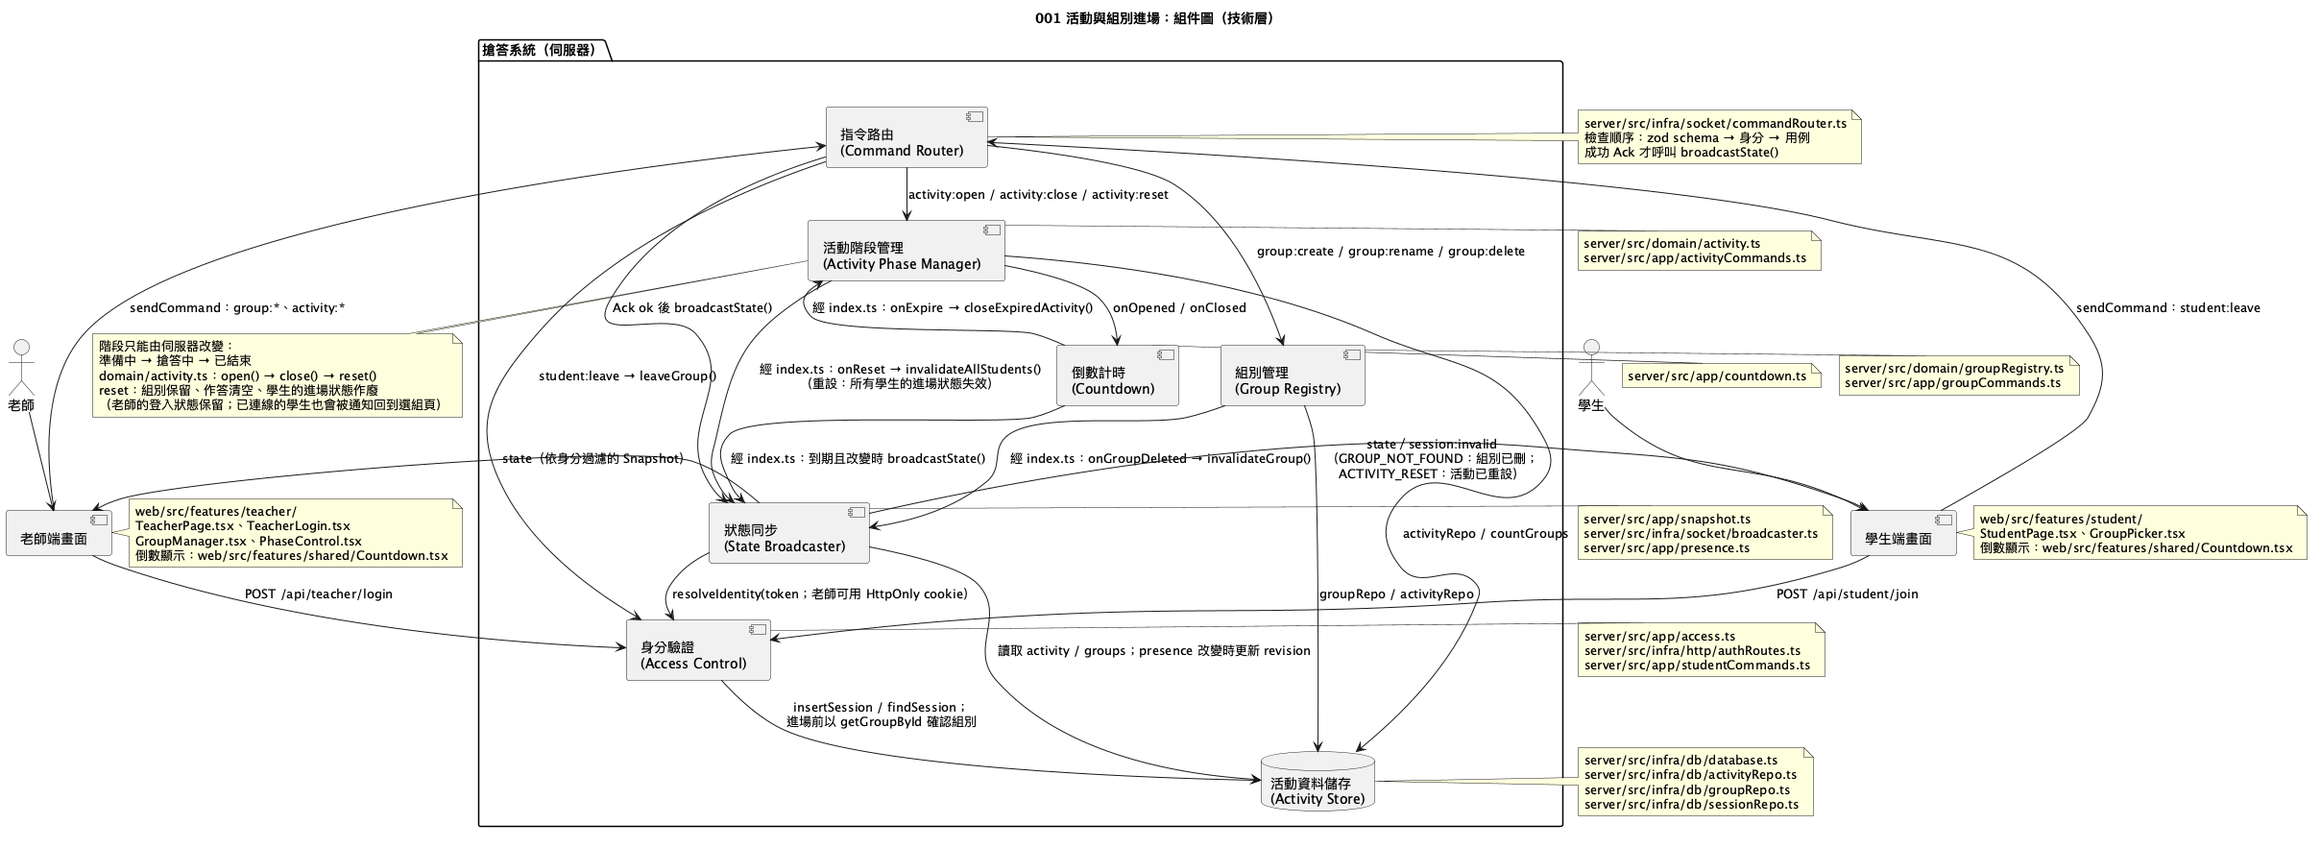
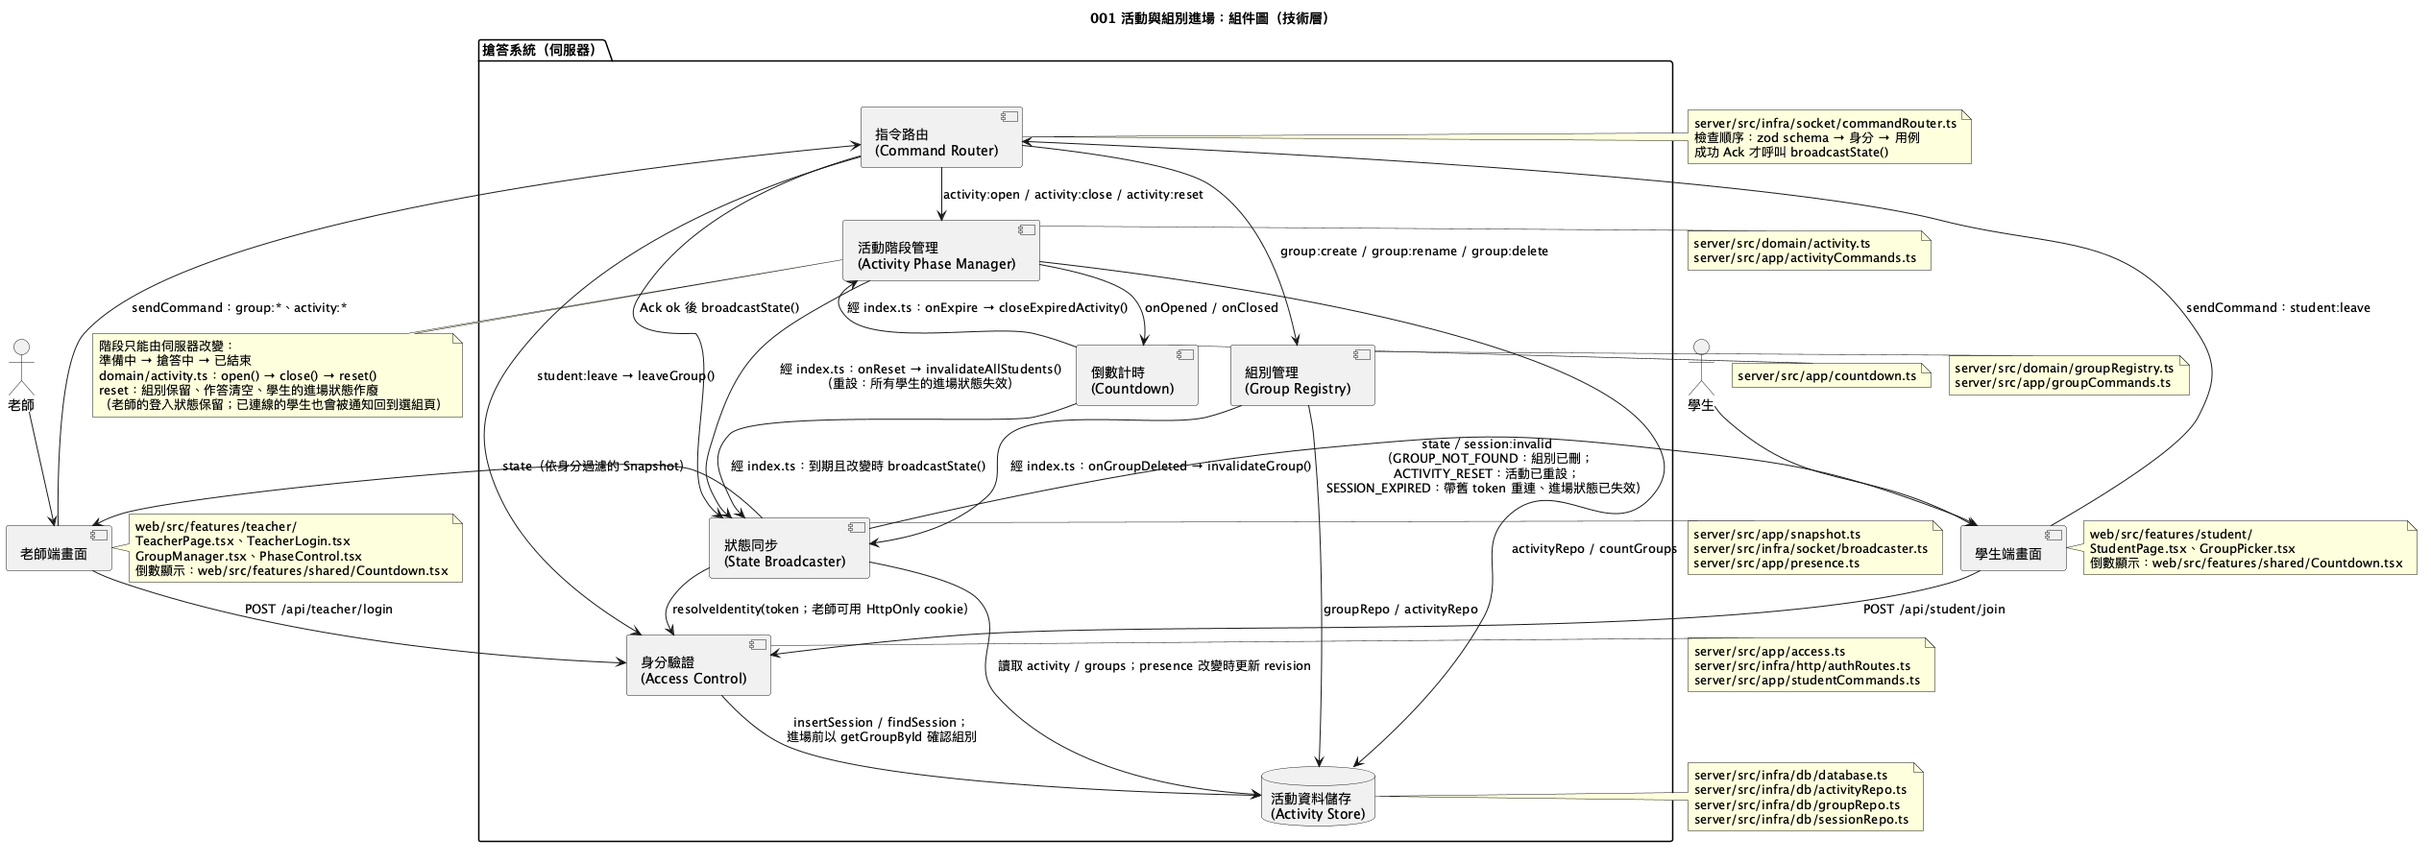
fix: 帶舊 token 重連時也通知學生（PR #44 review 三項修正）
- 伺服器：握手帶了 token、但身分解析為 guest 時，除了訪客快照也送
  session:invalid（SESSION_EXPIRED），前端因此清除 sessionStorage 裡的
  舊 token 並說明原因；與 GROUP_NOT_FOUND 分支互斥，只在學生端 token
  路徑觸發（老師的 HttpOnly cookie 路徑不受影響）
- 選組頁三種失效原因改走 i18n（新增 picker.groupNotFound、
  picker.sessionExpired），英文模式不再顯示中文
- 英文 picker.activityReset 改為「choose your group again」，與標題
  「Choose your group」用字一致；ERROR_MESSAGES_EN.GROUP_NOT_FOUND 同步
- 契約、規格（AC-001-27／FR-022）、決策對照表與 diagrams 同步更新；
  新增「重設當下離線、之後重連」的整合測試

diff --git a/server/tests/integration/reset.test.ts b/server/tests/integration/reset.test.ts
@@ -160,7 +160,8 @@ describe('activity:reset 重設活動（老師＋學生＋guest）', () => {
    * 2026-11-24（D2-1）：重設 = 新的一場 → 一併作廢學生的 session。
    *
    * 這個測項自建 socket（不用 beforeEach 的），因為要同時觀察三種身分在
-   * 重設前後的差別：學生降為 guest、老師保留、已連線的學生不受影響。
+   * 重設前後的差別：已連線的學生即時降為 guest、離線的學生重連時被通知、
+   * 老師保留。
    */
   it('重設會作廢學生的 session：舊 token 重連降為 guest，老師的 token 仍可重連（D2-1）', async () => {
     const teacherToken = issueSession(server.db, { role: 'teacher' });
@@ -199,10 +200,13 @@ describe('activity:reset 重設活動（老師＋學生＋guest）', () => {
     expect(studentAfterReset.role).toBe('guest');
     expect(studentAfterReset).not.toHaveProperty('myGroupId');
 
-    // 但他的 session 已經不存在了 → 用舊 token 重連會降為 guest。
+    // 但他的 session 已經不存在了 → 用舊 token 重連會降為 guest，並先收到
+    // SESSION_EXPIRED，讓前端清掉舊 token（等待器必須在 connect 前掛好）。
     const reconnected = server.connect({ token: studentToken, autoConnect: false });
+    const sessionExpired = waitForSessionInvalid(reconnected);
     const guestSnapshot = waitForState(reconnected);
     reconnected.connect();
+    expect(await sessionExpired).toEqual({ code: 'SESSION_EXPIRED' });
     expect((await guestSnapshot).role).toBe('guest');
 
     // 老師的 session 保留 → 用老師 token 重連仍是老師（不該被踢出）。
@@ -210,6 +214,72 @@ describe('activity:reset 重設活動（老師＋學生＋guest）', () => {
     const teacherSnapshot = waitForState(teacherReconnected);
     teacherReconnected.connect();
     expect((await teacherSnapshot).role).toBe('teacher');
+  });
+
+  /**
+   * 重設當下離線的學生收不到即時的 ACTIVITY_RESET；session 資料列刪除後，
+   * 必須在帶舊 token 重連時收到 SESSION_EXPIRED，才知道進場狀態為何失效。
+   */
+  it('重設當下離線的學生帶舊 token 重連，收到 SESSION_EXPIRED 且快照身分為 guest', async () => {
+    const offlineStudentToken = issueSession(server.db, {
+      role: 'student',
+      groupId: 'group-2',
+    });
+    const offlineStudent = server.connect({
+      token: offlineStudentToken,
+      autoConnect: false,
+    });
+
+    const studentInitial = waitForState(offlineStudent);
+    offlineStudent.connect();
+    const initialSnapshot = await studentInitial;
+    expect(initialSnapshot.role).toBe('student');
+    expect(initialSnapshot).toHaveProperty('myGroupId', 'group-2');
+
+    // 開搶答 → 結束，讓重設的前置條件成立。
+    let states = Promise.all([
+      waitForState(teacherSocket),
+      waitForState(offlineStudent),
+    ]);
+    expect(await sendCommand(teacherSocket, 'activity:open', {})).toEqual({
+      ok: true,
+    });
+    await states;
+    states = Promise.all([
+      waitForState(teacherSocket),
+      waitForState(offlineStudent),
+    ]);
+    expect(await sendCommand(teacherSocket, 'activity:close', {})).toEqual({
+      ok: true,
+    });
+    await states;
+
+    // 等老師快照確認第二組已離線，確保重設前 server 已處理 disconnect。
+    const teacherSawStudentOffline = waitForStateMatching(
+      teacherSocket,
+      (snapshot): snapshot is TeacherSnapshot =>
+        snapshot.role === 'teacher' && snapshot.presence['group-2'] === 0,
+    );
+    offlineStudent.disconnect();
+    await teacherSawStudentOffline;
+
+    expect(
+      await sendCommand(teacherSocket, 'activity:reset', { confirm: true }),
+    ).toEqual({ ok: true });
+
+    // 舊 token 對應的 session 已刪除；兩個等待器都要在 connect 前掛好。
+    const reconnected = server.connect({
+      token: offlineStudentToken,
+      autoConnect: false,
+    });
+    const sessionExpired = waitForSessionInvalid(reconnected);
+    const guestSnapshot = waitForState(reconnected);
+    reconnected.connect();
+
+    expect(await sessionExpired).toEqual({ code: 'SESSION_EXPIRED' });
+    const reconnectedSnapshot = await guestSnapshot;
+    expect(reconnectedSnapshot.role).toBe('guest');
+    expect(reconnectedSnapshot).not.toHaveProperty('myGroupId');
   });
 
   /**

diff --git a/web/tests/GroupPicker.test.tsx b/web/tests/GroupPicker.test.tsx
@@ -1,5 +1,5 @@
 import { cleanup, render, screen } from '@testing-library/react';
-import { ERROR_MESSAGES, type GroupSummary } from '@classroom/shared';
+import type { GroupSummary } from '@classroom/shared';
 import { afterEach, describe, expect, it, vi } from 'vitest';
 import { GroupPicker } from '../src/features/student/GroupPicker';
 
@@ -32,7 +32,7 @@ describe('GroupPicker', () => {
     render(<GroupPicker groups={groups} sessionInvalidCode="GROUP_NOT_FOUND" />);
 
     expect(screen.getByRole('alert').textContent).toBe(
-      ERROR_MESSAGES.GROUP_NOT_FOUND,
+      '找不到這個組別，請重新選擇',
     );
   });
 
@@ -47,8 +47,19 @@ describe('GroupPicker', () => {
       '活動已重設，請重新選擇組別',
     );
     // 不是「組別不存在」的說明。
-    expect(screen.queryByText(ERROR_MESSAGES.GROUP_NOT_FOUND)).toBeNull();
+    expect(screen.queryByText('找不到這個組別，請重新選擇')).toBeNull();
     // 組別保留 → 學生點一下就能重新進場。
     expect(screen.getByRole('button', { name: '第一組' })).toBeDefined();
+  });
+
+  it('SESSION_EXPIRED 顯示「進場狀態已失效，請重新選擇組別」的說明', () => {
+    render(<GroupPicker groups={groups} sessionInvalidCode="SESSION_EXPIRED" />);
+
+    expect(screen.getByRole('alert').textContent).toBe(
+      '進場狀態已失效，請重新選擇組別',
+    );
+    // 失效原因已無法分辨，不應誤稱是活動重設或組別不存在。
+    expect(screen.queryByText('活動已重設，請重新選擇組別')).toBeNull();
+    expect(screen.queryByText('找不到這個組別，請重新選擇')).toBeNull();
   });
 });

diff --git a/web/src/features/student/GroupPicker.tsx b/web/src/features/student/GroupPicker.tsx
@@ -1,14 +1,16 @@
-import {
-  ERROR_MESSAGES,
-  type GroupSummary,
-  type SessionInvalidPayload,
-} from '@classroom/shared';
+import type { GroupSummary, SessionInvalidPayload } from '@classroom/shared';
 import { useState } from 'react';
 import { useI18n } from '../../lib/i18n/LanguageProvider';
 import { joinStudent } from '../../lib/api';
 import { saveToken } from '../../lib/session';
 import { connectSocket } from '../../lib/socket';
 import styles from './GroupPicker.module.css';
+
+const SESSION_INVALID_MESSAGE_KEYS = {
+  GROUP_NOT_FOUND: 'picker.groupNotFound',
+  ACTIVITY_RESET: 'picker.activityReset',
+  SESSION_EXPIRED: 'picker.sessionExpired',
+} as const;
 
 export type GroupPickerProps = {
   groups: readonly GroupSummary[];
@@ -17,6 +19,7 @@ export type GroupPickerProps = {
    *
    * - `GROUP_NOT_FOUND`：目前組別已不存在（老師刪組）。
    * - `ACTIVITY_RESET`：活動被重設，本場的進場狀態失效（D2-1）。
+   * - `SESSION_EXPIRED`：帶著已失效的 token 重新連線，原失效原因已無法分辨。
    */
   sessionInvalidCode: SessionInvalidPayload['code'] | null;
 };
@@ -54,9 +57,7 @@ export function GroupPicker({ groups, sessionInvalidCode }: GroupPickerProps) {
       </h2>
       {sessionInvalidCode !== null && (
         <p className={styles.notice} role="alert">
-          {sessionInvalidCode === 'ACTIVITY_RESET'
-            ? t('picker.activityReset')
-            : ERROR_MESSAGES.GROUP_NOT_FOUND}
+          {t(SESSION_INVALID_MESSAGE_KEYS[sessionInvalidCode])}
         </p>
       )}
       {errorMessage !== null && (

diff --git a/web/src/lib/i18n/messages.ts b/web/src/lib/i18n/messages.ts
@@ -52,11 +52,13 @@ export const zhTW = {
 
   // ── 學生端：選組別 ──────────────────────────────────────
   'picker.title': '選擇組別',
+  'picker.groupNotFound': '找不到這個組別，請重新選擇',
   /*
    * 2026-11-25（D2-1）：活動被重設時，學生的進場狀態失效、回到選組頁。
    * 組別保留（老師設的組還在），重新點一次即可。
    */
   'picker.activityReset': '活動已重設，請重新選擇組別',
+  'picker.sessionExpired': '進場狀態已失效，請重新選擇組別',
   'picker.empty': '老師尚未建立組別',
   'picker.listLabel': '可選組別',
 
@@ -272,7 +274,9 @@ export const en: Messages = {
   'answer.buttonSubmitVisible': 'Submit Q{number}',
 
   'picker.title': 'Choose your group',
-  'picker.activityReset': 'The activity was reset, please pick a group again',
+  'picker.groupNotFound': 'That group no longer exists, please choose another group',
+  'picker.activityReset': 'The activity was reset, please choose your group again',
+  'picker.sessionExpired': 'Your session has expired, please choose your group again',
   'picker.empty': 'The teacher has not created any groups yet',
   'picker.listLabel': 'Available groups',
 

diff --git a/shared/src/protocol.ts b/shared/src/protocol.ts
@@ -362,12 +362,16 @@ export const STATE_EVENT = 'state';
  * 伺服器 → 前端：學生的進場狀態已失效。
  *
  * - `GROUP_NOT_FOUND`：學生 token 對應的組別已不存在（001 刪組）。
- * - `ACTIVITY_RESET`：活動被重設，本場的進場狀態一併失效（001 D19／D2-1）——
- *   學生回到選組頁、組別保留，重新點一次即可。
+ * - `ACTIVITY_RESET`：活動被重設，本場的進場狀態一併失效，已連線的學生也會收到
+ *   （001 D19／D2-1）；學生回到選組頁、組別保留，重新點一次即可。
+ * - `SESSION_EXPIRED`：學生帶著已失效的 token 重新連線；session 資料列已刪除，
+ *   失效原因已無法從資料庫分辨，因此只說明進場狀態失效。
  */
 export const SESSION_INVALID_EVENT = 'session:invalid';
 
-export type SessionInvalidPayload = { code: 'GROUP_NOT_FOUND' | 'ACTIVITY_RESET' };
+export type SessionInvalidPayload = {
+  code: 'GROUP_NOT_FOUND' | 'ACTIVITY_RESET' | 'SESSION_EXPIRED';
+};
 
 export type GroupCreatePayload = { name: string };
 export type GroupRenamePayload = { groupId: string; name: string };

diff --git a/server/src/infra/socket/broadcaster.ts b/server/src/infra/socket/broadcaster.ts
@@ -314,10 +314,16 @@ export function createSocketBroadcaster(
 
   io.on('connection', (socket) => {
     let identity = resolveSocketIdentity(socket, database);
+    const hasAuthToken = tokenFromSocket(socket) !== undefined;
 
     if (identity.role === 'student' && !getGroupById(database, identity.groupId)) {
       socket.emit(SESSION_INVALID_EVENT, { code: 'GROUP_NOT_FOUND' });
       identity = { role: 'guest' };
+    } else if (identity.role === 'guest' && hasAuthToken) {
+      // 學生帶著已刪除的 session token 重連時，資料庫已無法分辨是重設或刪組；
+      // 在第一份 state 前通知前端清除舊 token，避免每次重連都再送死 token。
+      // 只看 auth.token：老師的 HttpOnly cookie 路徑不應收到學生失效通知。
+      socket.emit(SESSION_INVALID_EVENT, { code: 'SESSION_EXPIRED' });
     }
 
     socketData(socket).identity = identity;

diff --git a/web/src/lib/i18n/errors.ts b/web/src/lib/i18n/errors.ts
@@ -15,7 +15,7 @@ export const ERROR_MESSAGES_EN: Partial<Record<ErrorCode, string>> = {
   GROUP_NAME_TOO_LONG: 'Group names can be at most 30 characters',
   GROUP_NAME_DUPLICATE: 'A group with this name already exists',
   GROUP_LIMIT_REACHED: 'You can create at most 100 groups',
-  GROUP_NOT_FOUND: 'That group no longer exists, please pick another one',
+  GROUP_NOT_FOUND: 'That group no longer exists, please choose another group',
   NO_GROUPS: 'Create at least one group first',
   COUNTDOWN_OUT_OF_RANGE: 'The countdown must be between 10 seconds and 60 minutes',
   CONFIRM_REQUIRED: 'Please confirm the activity reset',

diff --git a/shared/src/schemas.ts b/shared/src/schemas.ts
@@ -105,7 +105,7 @@ export const ackSchema = z.union([
 
 /** session:invalid 事件的內容。 */
 export const sessionInvalidSchema = z.object({
-  code: z.literal('GROUP_NOT_FOUND'),
+  code: z.enum(['GROUP_NOT_FOUND', 'ACTIVITY_RESET', 'SESSION_EXPIRED']),
 });
 
 /* ------------------------------------------------------------------ */

diff --git a/docs/shared/DECISION-MAP.md b/docs/shared/DECISION-MAP.md
@@ -50,7 +50,7 @@
 | D15 | 倒數計時 | 老師開啟時可選是否設定時間；範圍 10 秒～60 分鐘；時間到自動結束 | `server/src/app/countdown.ts`、`server/src/app/activityCommands.ts` | 001 |
 | D17 | 組別建立 | 老師在準備階段設定組數與組名（可新增／改名／刪除）| `server/src/app/groupCommands.ts` | 001 |
 | **D18** | **老師身分** | **老師端需要密碼才能進入**（密碼由環境變數 `TEACHER_PASSWORD` 設定）；**登入狀態存 HttpOnly cookie**（`HttpOnly; SameSite=Strict; Path=/`，不設 `Max-Age`、不設 `Secure`；頁面 JS 讀不到）、可登出、**伺服器重啟後須重新登入**；未登入呼叫老師端點回 **401 `TEACHER_AUTH_REQUIRED`** | `server/src/infra/http/authRoutes.ts`、`server/src/infra/http/teacherSession.ts` | 001 |
-| **D19** | **重設活動** | **老師可在「已結束」後重設回到「準備中」（需再次確認）；組別保留、本次作答清空；學生的進場狀態一併作廢（token 立即失效、老師的登入狀態保留）；**已連線的學生也會被通知（`session:invalid`，`code: 'ACTIVITY_RESET'`）並回到選組頁**，組別保留、重新點一下即可進場**（2026-11-25 兩組確認）** | `server/src/app/activityCommands.ts`、`server/src/infra/socket/broadcaster.ts`（`invalidateAllStudents`）、`web/src/features/student/GroupPicker.tsx` | 001 |
+| **D19** | **重設活動** | **老師可在「已結束」後重設回到「準備中」（需再次確認）；組別保留、本次作答清空；學生的進場狀態一併作廢（token 立即失效、老師的登入狀態保留）；**已連線的學生也會被通知（`session:invalid`，`code: 'ACTIVITY_RESET'`）並回到選組頁**，組別保留、重新點一下即可進場**（2026-11-25 兩組確認）**；2026-11-26 補充：**重設當下離線的學生在重新連線時也會收到 `session:invalid`（`code: 'SESSION_EXPIRED'`），前端清除舊 token 並回到選組頁**（失效原因已無法分辨，只說明進場狀態失效） | `server/src/app/activityCommands.ts`、`server/src/infra/socket/broadcaster.ts`（`invalidateAllStudents`、連線時的失效通知）、`web/src/features/student/GroupPicker.tsx` | 001 |
 | **D20** | **數量限制** | **組名 1–30 字元且不重複、最多 100 組**；倒數 10 秒～60 分鐘；答案每格 1–200 字元 | `server/src/domain/groupRegistry.ts`、`server/src/app/countdown.ts`、`server/src/domain/answerValidation.ts` | 001／003 |
 | D21 | 換組與重連 | 學生只能在「準備中」換組；重新整理或斷線重連後回到原組別與目前階段 | `server/src/app/studentCommands.ts`、`web/src/features/student/answerDrafts.ts` | 001／003 |
 | D22 | 題目敘述 | 匯入時若有題目敘述則一併讀取，作答區在題號旁顯示；沒有也不影響 | `server/src/domain/guidedNotesParser.ts`、`web/src/features/student/AnswerArea.tsx` | 002／003 |

diff --git a/specs/001-activity-session/spec.md b/specs/001-activity-session/spec.md
@@ -118,7 +118,7 @@
 
 **Acceptance Scenarios**:
 
-1. **AC-001-27**（C11）**Given** 活動在「已結束」，**When** 老師按「重設活動」並確認，**Then** 階段回到「準備中」，所有畫面在 2 秒內同步；組別保留，本次活動的其他資料清空；**該活動所有學生的進場狀態作廢**（用舊 token 重連不再是學生；**已連線的學生也會被通知並回到選組頁，畫面說明是「活動已重設」**，組別保留、重新選一次即可）、老師的登入狀態保留。
+1. **AC-001-27**（C11）**Given** 活動在「已結束」，**When** 老師按「重設活動」並確認，**Then** 階段回到「準備中」，所有畫面在 2 秒內同步；組別保留，本次活動的其他資料清空；**該活動所有學生的進場狀態作廢**（用舊 token 重連不再是學生，且會收到 `session:invalid` 說明進場狀態已失效；**已連線的學生也會被通知並回到選組頁，畫面說明是「活動已重設」**，組別保留、重新選一次即可）、老師的登入狀態保留。
 2. **AC-001-28**（C11）**Given** 老師按「重設活動」，**When** 在確認步驟選擇取消，**Then** 活動維持「已結束」，資料不變。
 3. **AC-001-29**（C11）**Given** 活動在「準備中」或「搶答中」，**When** 老師嘗試重設，**Then** 系統不提供或拒絕此操作。
 
@@ -178,7 +178,7 @@
 
 **重設**
 
-- **FR-022**（C11）: 老師 MUST 能在「已結束」階段重設活動；重設前系統 MUST 要求再次確認。重設後階段回到「準備中」，組別保留，本次活動的其他資料清空，**該活動所有學生的進場狀態一併作廢**（老師的登入狀態保留）：學生的 token 立即失效，**已連線的學生也 MUST 收到通知並回到選組頁**（組別保留，重新選一次即可進場）。
+- **FR-022**（C11）: 老師 MUST 能在「已結束」階段重設活動；重設前系統 MUST 要求再次確認。重設後階段回到「準備中」，組別保留，本次活動的其他資料清空，**該活動所有學生的進場狀態一併作廢**（老師的登入狀態保留）：學生的 token 立即失效，**已連線的學生也 MUST 收到通知並回到選組頁**（組別保留，重新選一次即可進場）；**重設當下離線的學生在重新連線時 MUST 也收到 `session:invalid` 通知並回到選組頁**（說明進場狀態已失效）。
 
 **倒數計時**
 

diff --git a/specs/001-activity-session/contracts/socket-events.md b/specs/001-activity-session/contracts/socket-events.md
@@ -4,14 +4,16 @@
 
 - 前端以 `io({ auth: { token } })` 連線。沒有 token 或 token 無效時，連線身分為訪客（guest）。
 - 連線成功後，伺服器立刻送出一次 `state`。
+- 學生帶著**已失效的 token** 連線（重設或刪組之後）時，除了訪客快照，伺服器也會送出 `session:invalid`（`code: 'SESSION_EXPIRED'`），讓前端清除舊 token 並說明原因。
 - 學生的進場狀態失效時，伺服器送出 `session:invalid`，前端清除 token 並回到選組畫面，並依 `code` 說明原因：
 
   | `code` | 送出時機 | 學生端畫面 |
   |---|---|---|
   | `GROUP_NOT_FOUND` | 學生 token 對應的組別已不存在（老師刪組；連線時解析或老師刪組之後） | 顯示「找不到這個組別，請重新選擇」 |
   | `ACTIVITY_RESET` | 活動被重設（`activity:reset` 成功）——該活動所有學生的進場狀態一併作廢，**已連線的學生也會收到** | 顯示「活動已重設，請重新選擇組別」 |
+  | `SESSION_EXPIRED` | 學生帶著**已失效的 token 重新連線**（例如重設當下已離線、老師已刪除該組別）；失效原因已無法從資料庫分辨，因此只說明進場狀態失效 | 顯示「進場狀態已失效，請重新選擇組別」 |
 
-  兩種情況**組別都保留**，學生重新點一次即可進場；`ACTIVITY_RESET` 不影響老師的登入狀態。
+  三種情況學生都會**清除 token 並回到選組頁**；組別清單本身不受影響（`GROUP_NOT_FOUND` 指的是學生原本的組別已被刪除），學生重新點一次即可進場；`ACTIVITY_RESET` 不影響老師的登入狀態。
 - 伺服器設有同時在線連線數上限（預設 500，環境變數 `MAX_CONNECTIONS`）。超過上限時**新的**連線在握手階段被拒（HTTP 403），既有的連線不受影響；客戶端會自動退避重連，名額空出來後即可進場。
 
 ## 伺服器 → 前端
